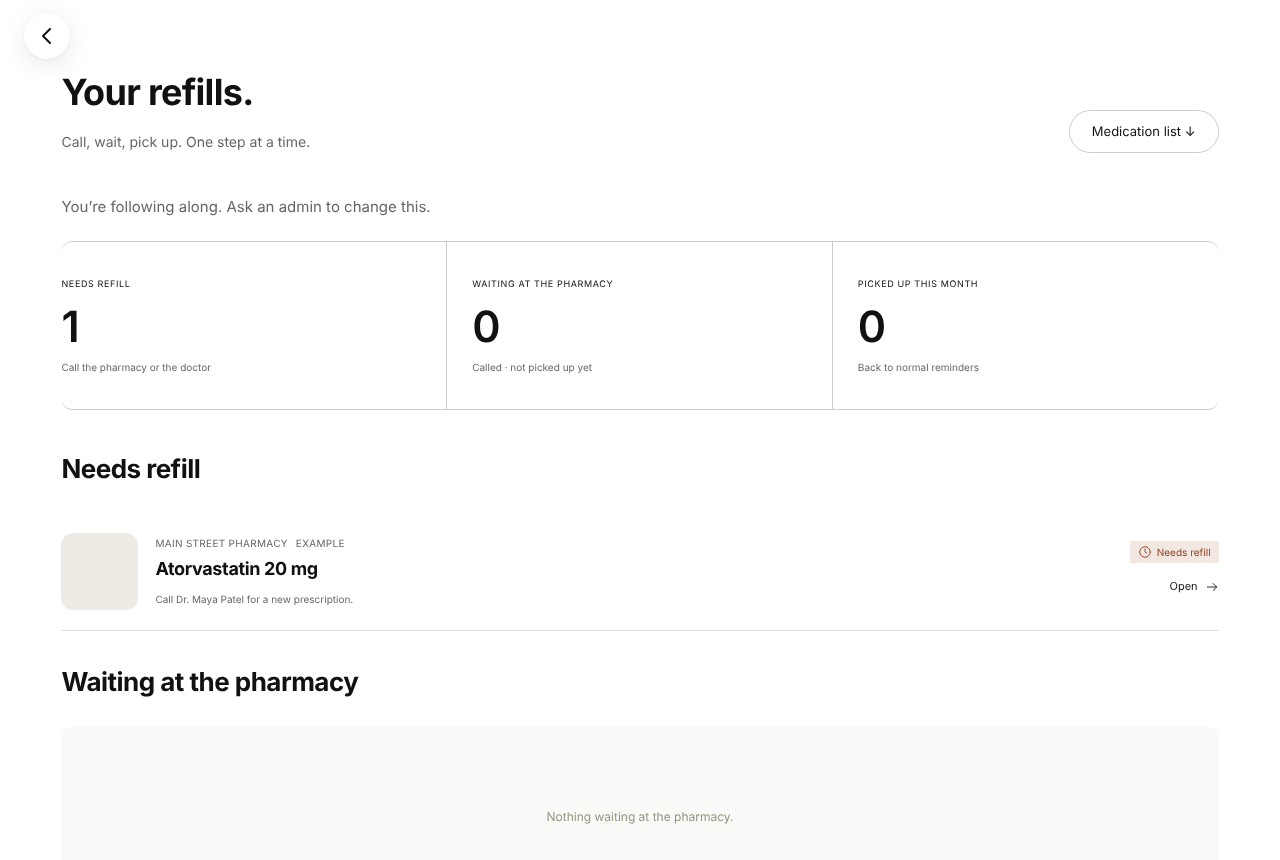
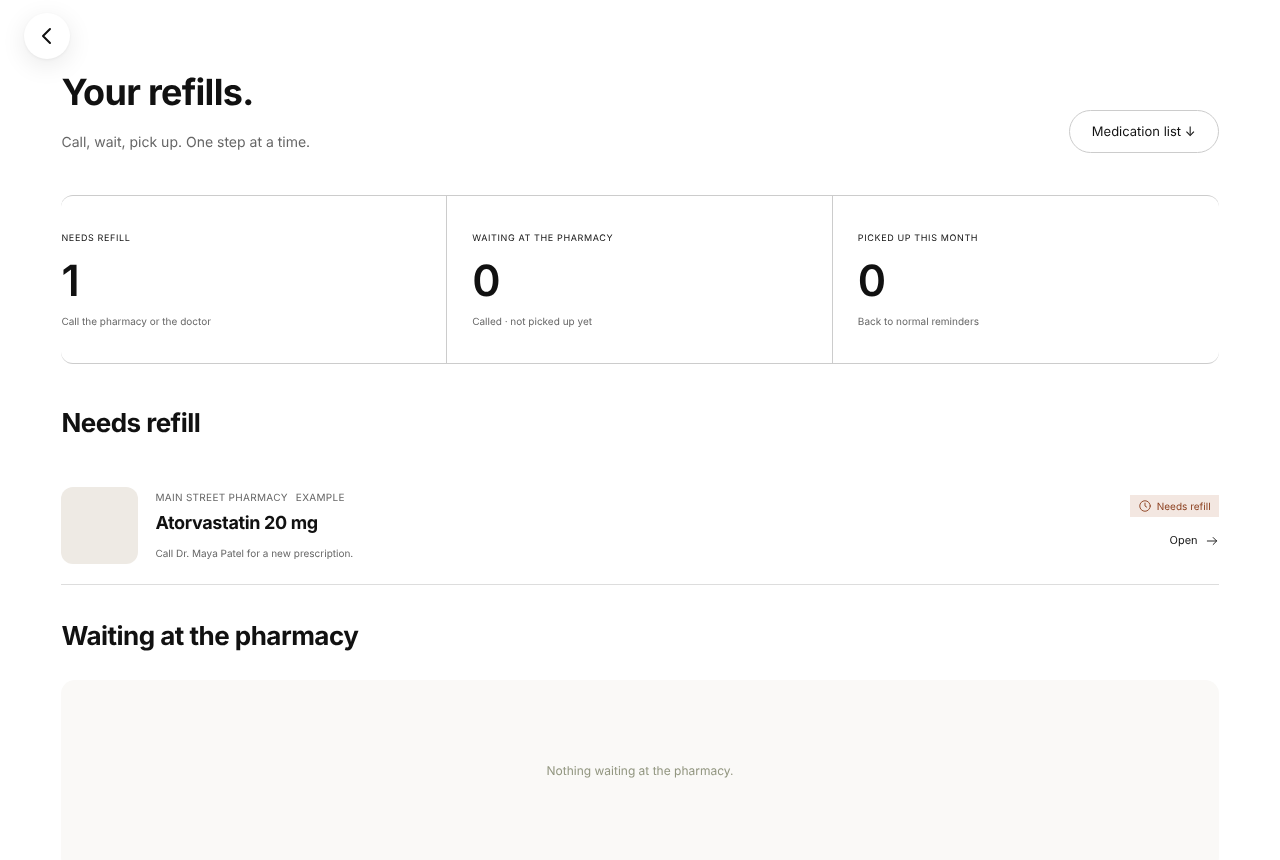
Drop the viewer's following-along line: people just get what their admin allows
Claude-Session: https://claude.ai/code/session_01QQDzcN643iGG2nwkC4WroU

diff --git a/can.js b/can.js
@@ -1,8 +1,7 @@
 /* Permissions on screen: what a person can't do isn't offered (the server refuses it anyway, see server/permissions.js).
-   Family viewers follow along: no My Tasks sheet, nothing that changes the plan, and one line on each page saying so. Without
+   Everyone sees only what the admins allow: family viewers get no My Tasks sheet and nothing that changes the plan. Without
    My Tasks there's no sheet and no Taken or Skipped; without the medications tick there's no Add discharge papers +, Confirm,
    or the controls that edit a medication, a visit, the profile or the reminder settings. Runs after every page is drawn. */
-const FOLLOW_NOTE='You’re following along. Ask an admin to change this.';
 function applyPermissions(){const main=$('#main');if(!main)return;
 const drop=sel=>main.querySelectorAll(sel).forEach(n=>n.remove()),off=sel=>main.querySelectorAll(sel).forEach(n=>{n.disabled=true});
 if(!mayDo('tasks'))drop('#tasks-sheet,[data-med-dose]');
@@ -11,8 +10,7 @@ if(!mayDo('meds')){drop('[data-add],[data-return],#add-appointment,[data-appt-re
   // The bottle and profile photos stay, but tapping them no longer offers a new one.
   main.querySelectorAll('label[for="flow-photo-med"],label[for="profile-photo"]').forEach(l=>{l.removeAttribute('for');l.removeAttribute('role');l.removeAttribute('tabindex');l.removeAttribute('aria-label')});
   off('[data-dose-time],#reminder-form input,#reminder-form button,#appt-form input,#profile-name-form input,#profile-name-form button')}
-if(mayDo('viewer')&&!main.querySelector('.follow-note')){const at=['.flow-tabs','.sub-title','.page-heading','.take-hero','.profile-hero'].map(s=>main.querySelector(s)).find(Boolean);
-  const note=`<p class="sub-intro follow-note">${FOLLOW_NOTE}</p>`;if(at)at.insertAdjacentHTML('afterend',note);else main.insertAdjacentHTML('afterbegin',note)}}
+}
 const renderBeforeCan=render;
 render=function(){
   // The Take page and the scan and confirm steps aren't open to people who can't use them.

diff --git a/server/permissions.js b/server/permissions.js
@@ -6,7 +6,7 @@
 class PermissionError extends Error { constructor(message) { super(message); this.status = 403; } }
 
 const SAY = {
-  viewer: 'You’re following along. Ask an admin to change this.',
+  viewer: 'You can’t change this.',
   tasks: 'Only people with My Tasks can mark doses and tasks. Ask an admin to add it.',
   meds: 'Ask an admin to let you scan papers and change medications.',
   admin: 'Only an admin can do this.'

diff --git a/menu.css b/menu.css
@@ -73,5 +73,3 @@ div.person-row{cursor:default}div.person-row:hover{background:none}
 .people-done{width:100%;margin-top:12px}
 #invite-link-form .people-add{margin-top:6px}
 #person-add-form .primary,#person-edit-form .primary{width:100%;margin-top:26px}
-/* Viewers: the "following along" line under each page title. */
-.follow-note{margin:6px 0 22px}

diff --git a/docs/care-team-plan.md b/docs/care-team-plan.md
@@ -62,7 +62,6 @@ When a step is merged, update its **Status** here in the same PR.
 **Build:**
 - The server refuses changes a person isn't allowed: viewers can't change items, settings or photos; marking doses and tasks needs My Tasks; adding or changing medications and scanning papers needs that tick.
 - The app hides what a person can't do: no My Tasks sheet for viewers; no Add discharge papers +, Confirm or Edit for people without the medications tick.
-- A short line on each page a viewer opens: "You're following along. Ask an admin to change this."
 **Done when:** a viewer can see everything but change nothing, even by calling the API directly, and a caregiver without the medications tick can do tasks but can't edit a medication.
 
 ---
